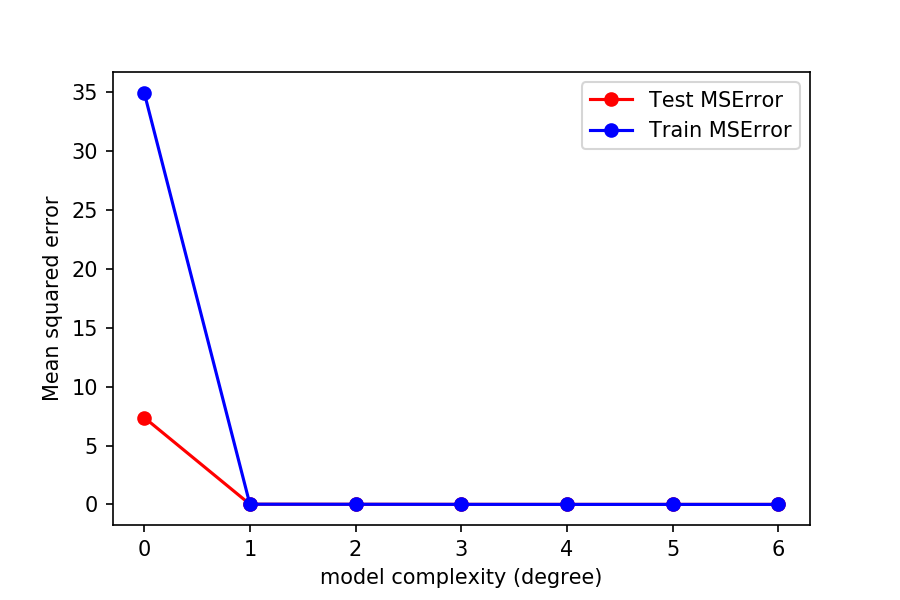
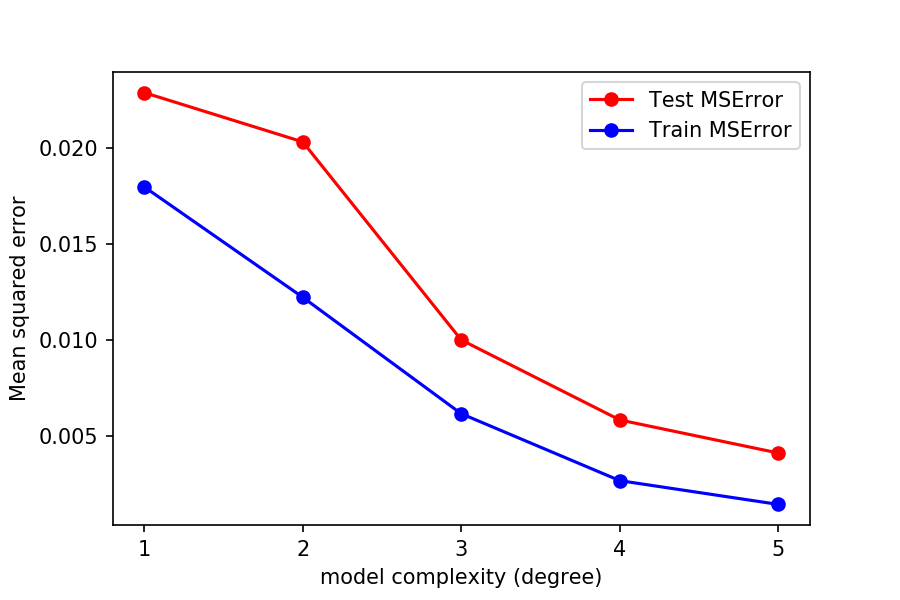
update

diff --git a/Project1/OLS_owncode.py b/Project1/OLS_owncode.py
@@ -10,16 +10,16 @@ from sklearn.linear_model import LinearRegression, Ridge, Lasso
 from sklearn.preprocessing import PolynomialFeatures, StandardScaler
 from sklearn.pipeline import Pipeline
 
-from functions import ScaleData, LinReg
+from functions import LinReg
 from DesignMatrix import DesignMatrix
 import FrankeFunction as FF
 import Calculate_MSE_R2 as error
 
 #polynomial degree up to 10
-maxdegree= 6
+maxdegree= 5
 
 # Make data set.
-n = 500
+n = 70
 
 
 x1 = np.random.uniform(0,1,n)
@@ -42,52 +42,55 @@ x_train, x_test, y_train, y_test = train_test_split(x, y, test_size=0.2)
 
     
 #Scaling
-#x_train, x_test, y_train, y_test = ScaleData(x_train, x_test, y_train, y_test)
-y_train_mean = np.mean(y_train)
-x_train_mean = np.mean(x_train)
-x_train = x_train - x_train_mean
-y_train = y_train - y_train_mean
-x_test = x_test - x_train_mean
-y_test = y_test - y_train_mean
+#y_train_mean = np.mean(y_train)
+#x_train_mean = np.mean(x_train)
+#x_train = x_train - x_train_mean
+#y_train = y_train - y_train_mean
+#x_test = x_test - x_train_mean
+#y_test = y_test - y_train_mean
 
 
-#Initialization
+
 #Initialize before looping:
-TestError = np.zeros(maxdegree+1)
-TrainError = np.zeros(maxdegree+1)
-TestR2 = np.zeros(maxdegree+1)
-TrainR2 = np.zeros(maxdegree+1)
-polydegree = np.zeros(maxdegree+1)
-predictor = []
 
+
+TestError = np.zeros(maxdegree)
+TrainError = np.zeros(maxdegree)
+TestR2 = np.zeros(maxdegree)
+TrainR2 = np.zeros(maxdegree)
+polydegree = np.zeros(maxdegree)
+predictor =[]
 
 #OLS
-for degree in range(0,maxdegree+1):
+for degree in range(maxdegree):
     
-    if degree ==0:
-        
-        Beta = 0
-        y_pred = np.mean(y_test)
-        y_fit = np.mean(y_train)
-        
+  
+    X_train = DesignMatrix(x_train[:,0],x_train[:,1],degree+1)
+    X_test = DesignMatrix(x_test[:,0],x_test[:,1],degree+1)
+    y_fit, y_pred, Beta = LinReg(X_train, X_test, y_train, y_test)
     
-    else:
-        X_train = DesignMatrix(x_train[:,0],x_train[:,1],degree)
-        X_test = DesignMatrix(x_test[:,0],x_test[:,1],degree)
-        y_fit, y_pred, Beta = LinReg(X_train, X_test, y_train, y_test)
+    
 
     predictor=np.append(predictor,Beta)
-    polydegree[degree] = degree
+    polydegree[degree] = degree+1
+    
     TestError[degree] = error.MSE(y_test,y_pred)
-    TrainError[degree] = error.MSE(y_train,y_fit)
+    TrainError[degree] = error.MSE(y_train ,y_fit)
     TestR2[degree] = error.R2(y_test,y_pred)
     TrainR2[degree] = error.R2(y_train,y_fit)
+        
+    #With rescaling
+#    TestError[degree] = error.MSE(y_test + y_train_mean,y_pred + y_train_mean)
+#    TrainError[degree] = error.MSE(y_train + y_train_mean,y_fit + y_train_mean)
+#    TestR2[degree] = error.R2(y_test + y_train_mean,y_pred + y_train_mean)
+#    TrainR2[degree] = error.R2(y_train + y_train_mean,y_fit + y_train_mean)
+    
     
     #Display regression results for each polynomial degree
     print("\nModel complexity:")
-    print(degree)
+    print(degree+1)
     print("\nOptimal estimator Beta")
-    print(Beta)
+    print(Beta.shape)
     print("\nTraining error")
     print("MSE =",error.MSE(y_train,y_fit))
     print("R2 =",error.R2(y_train,y_fit))
@@ -102,7 +105,7 @@ for degree in range(0,maxdegree+1):
 #MSE
 plt.plot(polydegree, TestError,'r-o' , label='Test MSError')
 plt.plot(polydegree, TrainError,'b-o', label='Train MSError')
-
+plt.xticks(np.arange(1, maxdegree+1, step=1))  # Set label locations.
 plt.xlabel("model complexity (degree)")
 plt.ylabel("Mean squared error")
 plt.legend()
@@ -112,7 +115,7 @@ plt.show()
 #R2 score
 plt.plot(polydegree, TestR2,'r-d', label='Test R2')
 plt.plot(polydegree, TrainR2, 'b-d',label='Train R2')
-plt.xticks(np.arange(1, 6, step=1))  # Set label locations.
+plt.xticks(np.arange(1, maxdegree+1, step=1))  # Set label locations.
 plt.xlabel("model complexity (degree)")
 plt.ylabel("R2 score")
 plt.legend()
@@ -122,12 +125,12 @@ plt.show()
 #Beta coefficients
 print(predictor.shape)
 
-plt.plot(predictor[0],'md-' , label='degree=0')
-plt.plot(predictor[1:4],'r-*' , label='degree=1')
-plt.plot(predictor[4:10],'b-*' , label='degree=2')
-plt.plot(predictor[10:20],'g*-' , label='degree=3')
-plt.plot(predictor[20:35],'y*-' , label='degree=4')
-plt.plot(predictor[35:56],'k*-' , label='degree=5')
+plt.plot(predictor[0:3],'md-' , label='degree=1')
+plt.plot(predictor[3:9],'r-*' , label='degree=2')
+plt.plot(predictor[9:19],'b-*' , label='degree=3')
+plt.plot(predictor[19:34],'g*-' , label='degree=4')
+plt.plot(predictor[34:55],'y*-' , label='degree=5')
+
 
 
 locs, labels = plt.xticks()  # Get the current locations and labels.

diff --git a/Project1/OLS_scikit.py b/Project1/OLS_scikit.py
@@ -15,8 +15,10 @@ import FrankeFunction as FF
 import Calculate_MSE_R2 as error
 
 
-# Generate dataset with n observations
+#Define maximal model complexity
+maxdegree= 5
 
+# Generate dataset with n observations
 n = 100
 
 x1 = np.random.uniform(0,1,n)
@@ -43,32 +45,32 @@ y = np.array(y).reshape(n,1)
 x_train, x_test, y_train, y_test = train_test_split(x, y, test_size=0.2)
 
 
-#Scaling data
-scaler = StandardScaler()
-x_train = scaler.fit_transform(x_train)
-x_test = scaler.fit_transform(x_test)
-#
-##x_train = x_train - np.mean(x_train, axis=0)
-##x_test = x_test - np.mean(x_train,axis=0)
-#
-y_train = (y_train-np.mean(y_train))/np.std(y_train)
-y_test= (y_test-np.mean(y_test))/np.std(y_test)
+#Scaling data Scikit
+#scaler = StandardScaler()
+#x_train = scaler.fit_transform(x_train)
+#x_test = scaler.fit_transform(x_test)
 
-#Define maximal model complexity
-maxdegree= 10
+#Scaling manual
+y_train_mean = np.mean(y_train)
+x_train_mean = np.mean(x_train)
+x_train = x_train - x_train_mean
+y_train = y_train - y_train_mean
+x_test = x_test - x_train_mean
+y_test = y_test - y_train_mean
+
 
 #Initialize before looping:
-TestError = np.zeros(maxdegree+1)
-TrainError = np.zeros(maxdegree+1)
-TestR2 = np.zeros(maxdegree+1)
-TrainR2 = np.zeros(maxdegree+1)
-polydegree = np.zeros(maxdegree+1)
+TestError = np.zeros(maxdegree)
+TrainError = np.zeros(maxdegree)
+TestR2 = np.zeros(maxdegree)
+TrainR2 = np.zeros(maxdegree)
+polydegree = np.zeros(maxdegree)
 predictor = []
 
-for degree in range(maxdegree+1):
+for degree in range(maxdegree):
     
     #perform polynomial regression with scikit-learn
-    model = Pipeline([('poly', PolynomialFeatures(degree=degree)),('linear',\
+    model = Pipeline([('poly', PolynomialFeatures(degree=degree+1)),('linear',\
                   LinearRegression(fit_intercept=False))])
     model = model.fit(x_train,y_train)
     
@@ -84,7 +86,7 @@ for degree in range(maxdegree+1):
 #    y_test = y_test + np.mean(y_train)
 #    y_train = y_train + np.mean(y_train)
 
-    polydegree[degree] = degree
+    polydegree[degree] = degree+1
     TestError[degree] = error.MSE(y_test,y_pred)
     TrainError[degree] = error.MSE(y_train,y_fit)
     TestR2[degree] = error.R2(y_test,y_pred)
@@ -92,7 +94,7 @@ for degree in range(maxdegree+1):
     
     #Display regression results for each polynomial degree
     print("\nModel complexity:")
-    print(degree)
+    print(degree+1)
     print("\nOptimal estimator Beta")
     print(Beta.shape)
     print("\nTraining error")
@@ -112,7 +114,7 @@ plt.plot(polydegree, TrainError,'b-o', label='Train MSError')
 plt.xlabel("model complexity (degree)")
 plt.ylabel("Mean squared error")
 plt.legend()
-plt.savefig("Results/MSE_vs_complexity.png",dpi=150)
+plt.savefig("Results/MSE_vs_complexity_scikit.png",dpi=150)
 plt.show()
 
 #R2 score
@@ -122,18 +124,18 @@ plt.xticks(np.arange(1, 6, step=1))  # Set label locations.
 plt.xlabel("model complexity (degree)")
 plt.ylabel("R2 score")
 plt.legend()
-plt.savefig("Results/R2_vs_complexity.png",dpi=150)
+plt.savefig("Results/R2_vs_complexity_scikit.png",dpi=150)
 plt.show()
 
 #Beta coefficients
 print(predictor.shape)
 
-plt.plot(predictor[0],'md-' , label='degree=0')
-plt.plot(predictor[1:4],'r-*' , label='degree=1')
-plt.plot(predictor[4:10],'b-*' , label='degree=2')
-plt.plot(predictor[10:20],'g*-' , label='degree=3')
-plt.plot(predictor[20:35],'y*-' , label='degree=4')
-plt.plot(predictor[35:56],'k*-' , label='degree=5')
+plt.plot(predictor[0:3],'md-' , label='degree=1')
+plt.plot(predictor[3:9],'r-*' , label='degree=2')
+plt.plot(predictor[9:19],'b-*' , label='degree=3')
+plt.plot(predictor[19:34],'g*-' , label='degree=4')
+plt.plot(predictor[34:55],'y*-' , label='degree=5')
+
 
 
 locs, labels = plt.xticks()  # Get the current locations and labels.
@@ -150,10 +152,7 @@ plt.xticks(np.arange(21), [r'$\beta_0$', r'$\beta_1$', r'$\beta_2$', \
 
 plt.ylabel("Optimal Beta - predictor value")
 plt.legend()
-plt.savefig("Results/Optimal_predictor.png",dpi=150)
-
-
-
+plt.savefig("Results/Optimal_predictor_scikit.png",dpi=150)
 
 
 

diff --git a/Project1/functions.py b/Project1/functions.py
@@ -13,19 +13,6 @@ from imageio import imread
 from mpl_toolkits.mplot3d import Axes3D
 from matplotlib import cm
 
-def ScaleData(x_train, x_test, y_train, y_test):
-    scaler = StandardScaler()
-    scaler.fit(x_train)
-    x_train_scaled = scaler.transform(x_train)
-    x_test_scaled = scaler.transform(x_test)
-
-    scaler.fit(y_test)
-    y_test_scaled = scaler.transform(y_test)
-    scaler.fit(y_train)
-    y_train_scaled = scaler.transform(y_train)
-    
-    return x_train_scaled, x_test_scaled, y_train_scaled, y_test_scaled
-
 
         
 def LinReg(X_train, X_test, y_train, y_test):
